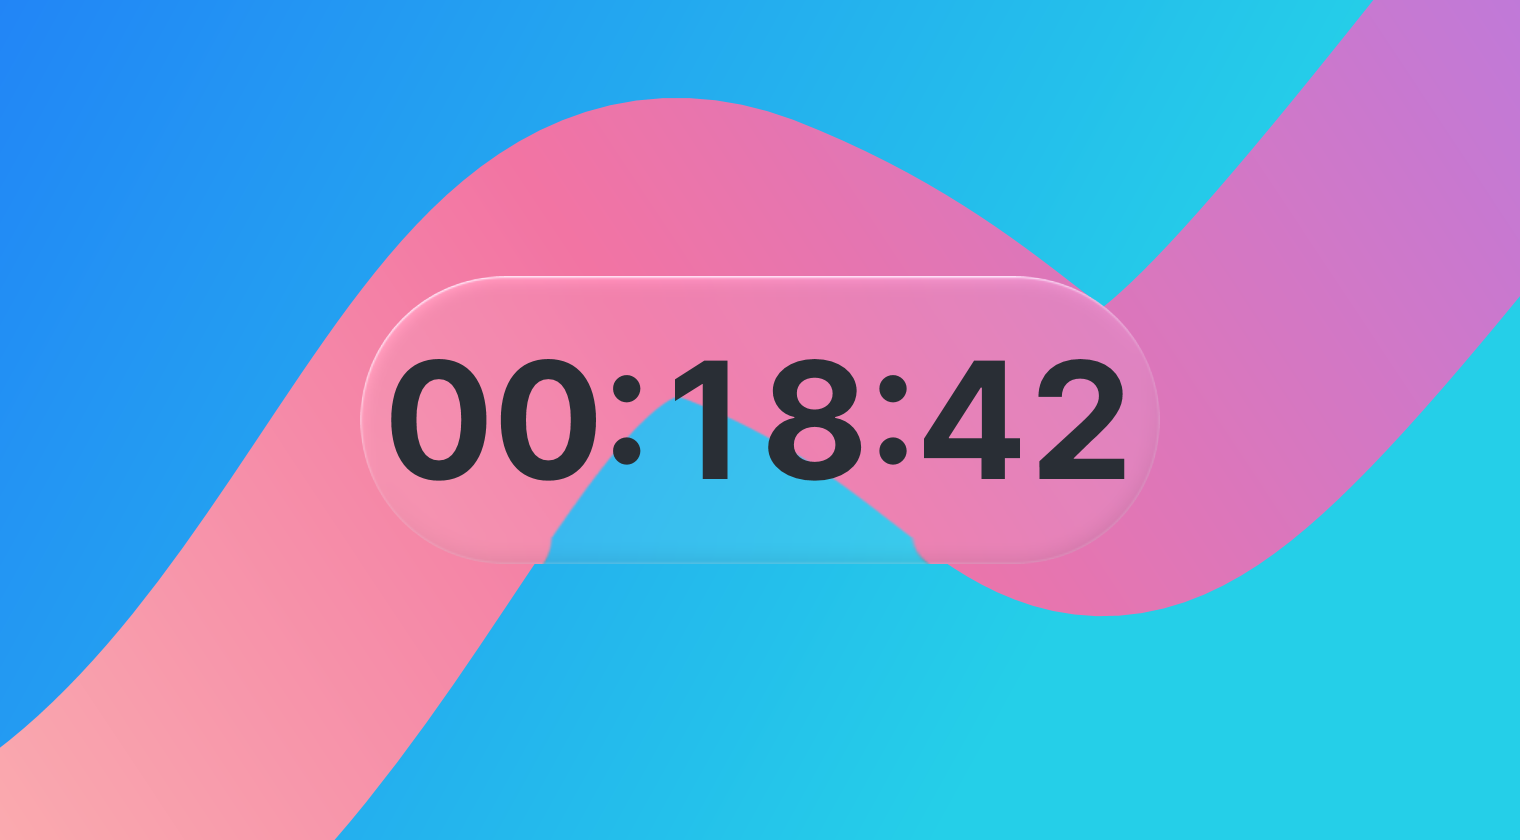
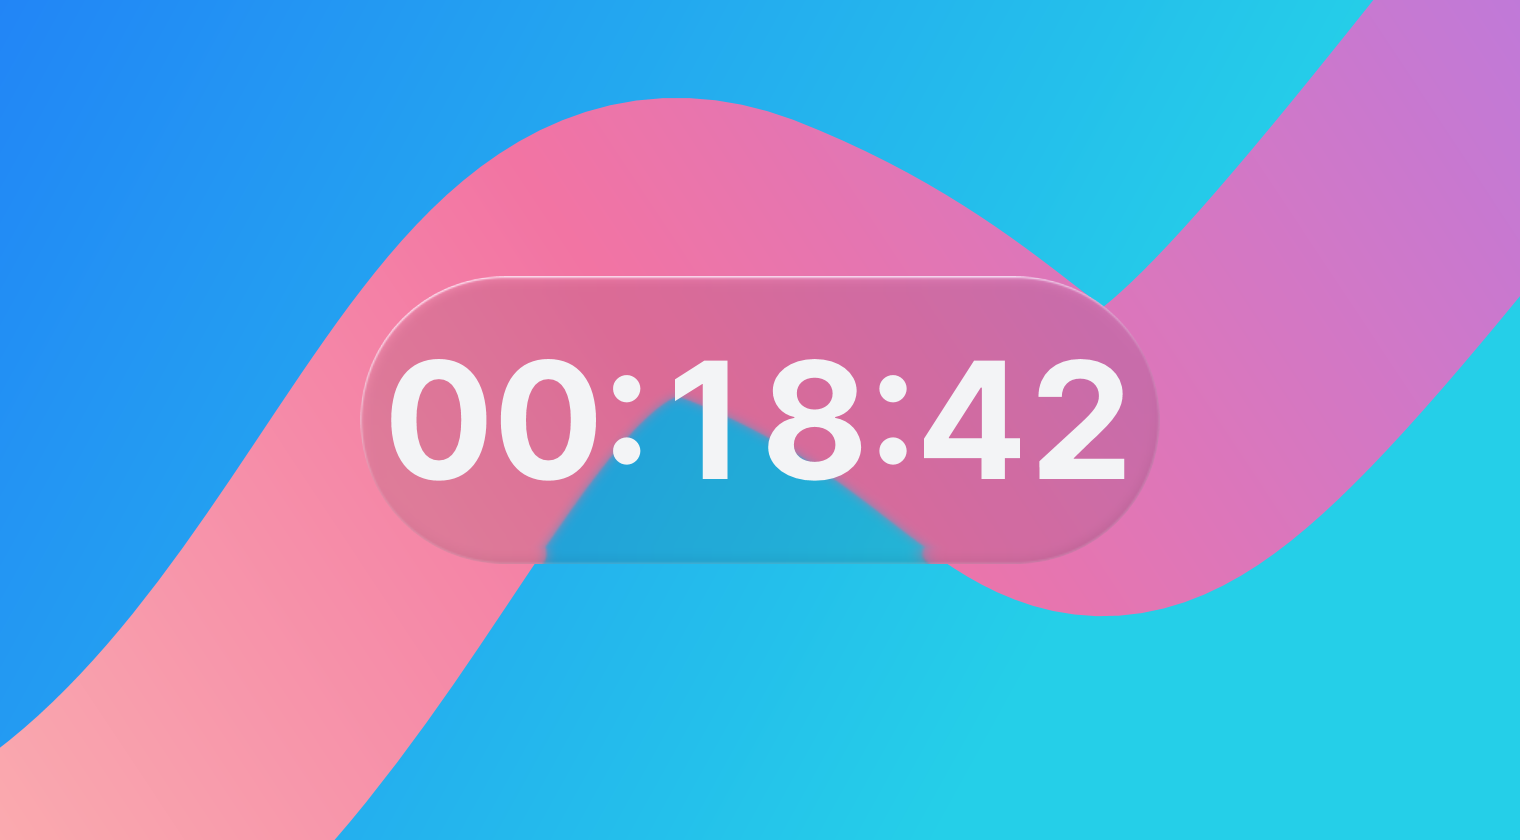
Refine glass blur and update dark mini-mode screenshot

Changed region(s): [[0.2164, 0.3714, 0.7421, 0.681], [0.2783, 0.3095, 0.7421, 0.3714], [0.5875, 0.619, 0.6184, 0.681]]

diff --git a/FocusTimer.Native/Glass.cpp b/FocusTimer.Native/Glass.cpp
@@ -13,6 +13,7 @@
 #include <cstring>
 #include "GlassVS.h"
 #include "GlassPS.h"
+#include "GlassBlurPS.h"
 
 using namespace winrt;
 using namespace winrt::Windows::Graphics::Capture;
@@ -34,12 +35,15 @@ struct Renderer {
     com_ptr<ID3D11DeviceContext> context;
     IDirect3DDevice winrtDevice{nullptr};
     com_ptr<ID3D11VertexShader> vs;
-    com_ptr<ID3D11PixelShader> ps;
+    com_ptr<ID3D11PixelShader> ps, blurPs;
     com_ptr<ID3D11Buffer> constants;
     com_ptr<ID3D11SamplerState> sampler;
     com_ptr<ID3D11Texture2D> atlas, target, staging;
     com_ptr<ID3D11ShaderResourceView> srv;
     com_ptr<ID3D11RenderTargetView> rtv;
+    com_ptr<ID3D11Texture2D> blurTextures[2];
+    com_ptr<ID3D11ShaderResourceView> blurViews[2];
+    com_ptr<ID3D11RenderTargetView> blurTargets[2];
     std::vector<std::unique_ptr<Output>> outputs;
     int width{}, height{}, padding{32};
     int test{};
@@ -52,6 +56,7 @@ struct Renderer {
         winrtDevice = inspectable.as<IDirect3DDevice>();
         check_hresult(device->CreateVertexShader(GlassVS, sizeof GlassVS, nullptr, vs.put()));
         check_hresult(device->CreatePixelShader(GlassPS, sizeof GlassPS, nullptr, ps.put()));
+        check_hresult(device->CreatePixelShader(GlassBlurPS, sizeof GlassBlurPS, nullptr, blurPs.put()));
         D3D11_BUFFER_DESC buffer{}; buffer.ByteWidth = 32; buffer.Usage = D3D11_USAGE_DEFAULT; buffer.BindFlags = D3D11_BIND_CONSTANT_BUFFER;
         check_hresult(device->CreateBuffer(&buffer, nullptr, constants.put()));
         D3D11_SAMPLER_DESC sd{}; sd.Filter = D3D11_FILTER_MIN_MAG_MIP_LINEAR;
@@ -62,11 +67,20 @@ struct Renderer {
         if(w == width && h == height) return;
         width = w; height = h;
         srv = nullptr; rtv = nullptr; atlas = nullptr; target = nullptr; staging = nullptr;
+        for(int i=0; i<2; ++i) {
+            blurViews[i] = nullptr; blurTargets[i] = nullptr; blurTextures[i] = nullptr;
+        }
         D3D11_TEXTURE2D_DESC d{}; d.Width = w + padding * 2; d.Height = h + padding * 2;
         d.MipLevels = d.ArraySize = 1; d.Format = DXGI_FORMAT_B8G8R8A8_UNORM; d.SampleDesc.Count = 1;
         d.Usage = D3D11_USAGE_DEFAULT; d.BindFlags = D3D11_BIND_SHADER_RESOURCE;
         check_hresult(device->CreateTexture2D(&d, nullptr, atlas.put()));
         check_hresult(device->CreateShaderResourceView(atlas.get(), nullptr, srv.put()));
+        d.BindFlags = D3D11_BIND_SHADER_RESOURCE | D3D11_BIND_RENDER_TARGET;
+        for(int i=0; i<2; ++i) {
+            check_hresult(device->CreateTexture2D(&d, nullptr, blurTextures[i].put()));
+            check_hresult(device->CreateShaderResourceView(blurTextures[i].get(), nullptr, blurViews[i].put()));
+            check_hresult(device->CreateRenderTargetView(blurTextures[i].get(), nullptr, blurTargets[i].put()));
+        }
         d.Width = w; d.Height = h; d.BindFlags = D3D11_BIND_RENDER_TARGET;
         check_hresult(device->CreateTexture2D(&d, nullptr, target.put()));
         check_hresult(device->CreateRenderTargetView(target.get(), nullptr, rtv.put()));
@@ -127,16 +141,33 @@ struct Renderer {
     }
     void Draw(float dark, float dpi, unsigned char* pixels, int stride) {
         float values[8]{float(width),float(height),float(padding),dark,dpi};
-        context->UpdateSubresource(constants.get(),0,nullptr,values,0,0);
         ID3D11Buffer* cb = constants.get(); context->PSSetConstantBuffers(0,1,&cb);
-        ID3D11ShaderResourceView* view = srv.get(); context->PSSetShaderResources(0,1,&view);
         ID3D11SamplerState* s = sampler.get(); context->PSSetSamplers(0,1,&s);
+        context->IASetPrimitiveTopology(D3D11_PRIMITIVE_TOPOLOGY_TRIANGLELIST);
+        context->VSSetShader(vs.get(),nullptr,0);
+        context->PSSetShader(blurPs.get(),nullptr,0);
+        D3D11_VIEWPORT blurViewport{0,0,float(width+2*padding),float(height+2*padding),0,1};
+        context->RSSetViewports(1,&blurViewport);
+        ID3D11ShaderResourceView* emptyViews[2]{};
+        for(int pass=0; pass<2; ++pass) {
+            values[5] = pass == 0 ? 1.f : 0.f;
+            values[6] = pass == 1 ? 1.f : 0.f;
+            context->UpdateSubresource(constants.get(),0,nullptr,values,0,0);
+            ID3D11ShaderResourceView* source = pass == 0 ? srv.get() : blurViews[0].get();
+            context->PSSetShaderResources(0,1,&source);
+            ID3D11RenderTargetView* destination = blurTargets[pass].get();
+            context->OMSetRenderTargets(1,&destination,nullptr);
+            context->Draw(3,0);
+            context->PSSetShaderResources(0,2,emptyViews);
+            context->OMSetRenderTargets(0,nullptr,nullptr);
+        }
+        ID3D11ShaderResourceView* views[]{srv.get(),blurViews[1].get()};
+        context->PSSetShaderResources(0,2,views);
         ID3D11RenderTargetView* renderTarget = rtv.get(); context->OMSetRenderTargets(1,&renderTarget,nullptr);
         D3D11_VIEWPORT viewport{0,0,float(width),float(height),0,1}; context->RSSetViewports(1,&viewport);
-        context->IASetPrimitiveTopology(D3D11_PRIMITIVE_TOPOLOGY_TRIANGLELIST);
-        context->VSSetShader(vs.get(),nullptr,0); context->PSSetShader(ps.get(),nullptr,0);
+        context->PSSetShader(ps.get(),nullptr,0);
         context->Draw(3,0);
-        view = nullptr; context->PSSetShaderResources(0,1,&view);
+        context->PSSetShaderResources(0,2,emptyViews);
         context->OMSetRenderTargets(0,nullptr,nullptr);
         context->CopyResource(staging.get(),target.get());
         D3D11_MAPPED_SUBRESOURCE mapped{}; check_hresult(context->Map(staging.get(),0,D3D11_MAP_READ,0,&mapped));

diff --git a/README.md b/README.md
@@ -1,5 +1,9 @@
 # Focus Timer
 
-<img src="docs/images/timer-default.png" alt="기본 모드" width="420">
+<p align="center">
+  <img src="docs/images/timer-default.png" alt="기본 모드" width="350">
+</p>
 
-<img src="docs/images/timer-liquid-glass.png" alt="리퀴드 글래스 모드" width="760">
+<p align="center">
+  <img src="docs/images/timer-liquid-glass.png" alt="다크 모드 리퀴드 글래스" width="640">
+</p>
